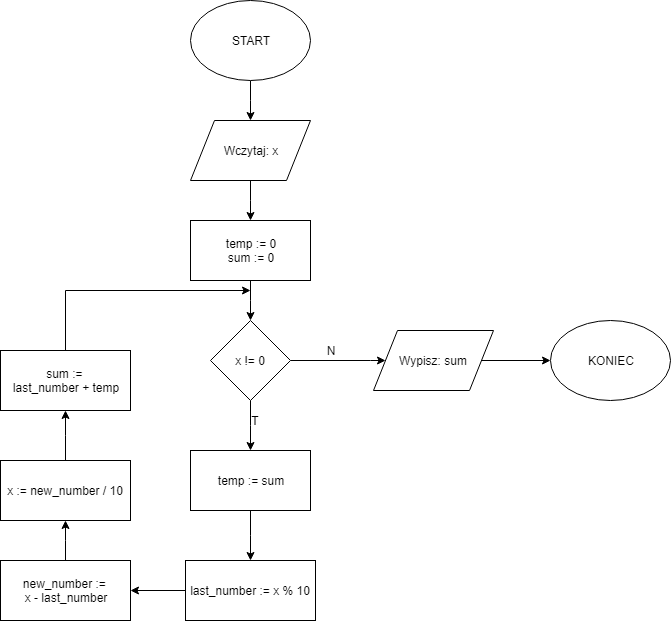
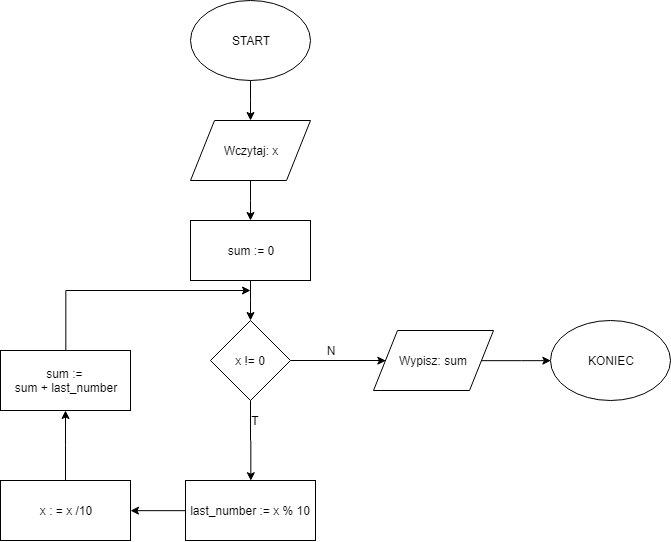
update

diff --git a/part I/add_even/add_even.rb b/part I/add_even/add_even.rb
@@ -5,20 +5,17 @@
 # • wyprowadzając/znajdując wzór na sumę takich liczb (podpowiedź: jest to ciąg
 # arytmetyczny)
 
-def addEven(n)
+def add_even(n)
   i = 0
   sum = 0
-  temp = 0
   while i < n
     
     i = i + 1
-    
     if i % 2 == 0
-      temp = sum
-      sum = temp + i
+      sum = sum + i
     end
   end  
   puts sum
 end
 
-addEven(11)
+add_even(11)

diff --git a/part I/pesel/pesel.rb b/part I/pesel/pesel.rb
@@ -13,7 +13,6 @@ def pesel(pesel)
   # Metoda digits nie działa jeśli zaczniemy pesel od 0, nie mogę znaleźć dlaczego 
   
   arr = pesel.digits.reverse
-  # arr = [9, 0, 0, 8, 1, 6, 1, 4, 6, 3, 2]
 
   sum = 9 * arr[0] + 7 * arr[1] + 3 * arr[2] + 1 * arr[3] + 9 * arr[4] + 7 * arr[5] + 3 * arr[6] + 1 * arr[7] + 9 * arr[8] + 7 * arr[9]
   cor = sum % 10

diff --git a/part I/zad_2.3/plusminussum.rb b/part I/zad_2.3/plusminussum.rb
@@ -12,7 +12,7 @@ while n != 0
   else
     sum_minus = sum_minus + n
   end
-  puts "sum_plus: #{sum_plus}, sum_minus: #{sum_minus} "
+  # puts "sum_plus: #{sum_plus}, sum_minus: #{sum_minus} "
   n = gets.to_i
 end
 
